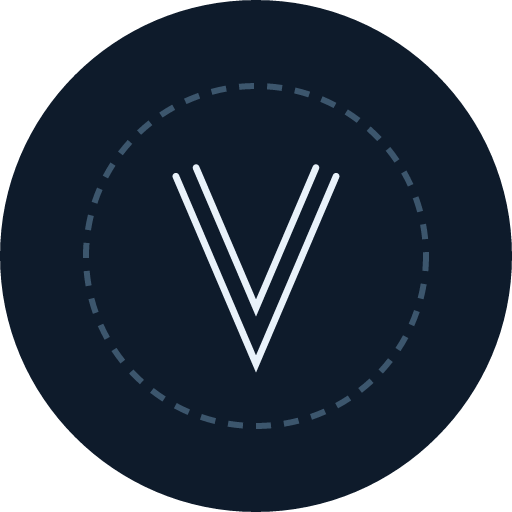
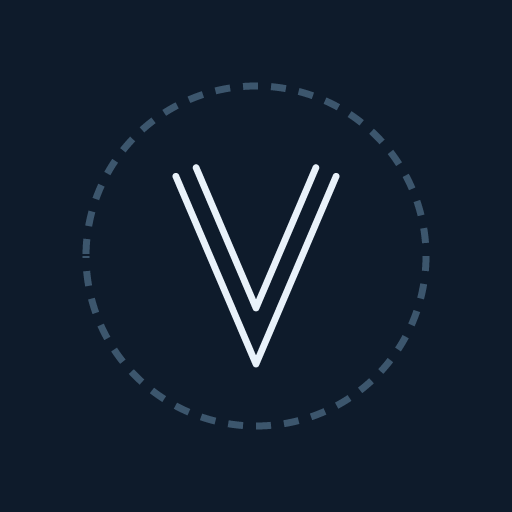
fix(mobile): ícone deixa de ser redondo no iOS
O `icon.svg` desenhava o fundo como `<circle r="256">` dentro de um viewBox
512x512, então sobravam os quatro cantos TRANSPARENTES. O iOS compõe
transparência sobre preto e aplica a máscara arredondada dele por cima — o
resultado é a bola escura dentro do quadrado que você viu. O iOS não tem opção
de ícone redondo mesmo; ele sempre desenha o quadrado de cantos arredondados, e
quem tem que entregar o quadrado cheio é o app.

Detalhe que explica por que isso passou: os PNGs commitados tinham vindo do
SVG, não do `scripts/generate-icons.mjs`. O script já desenhava o fundo no
quadrado inteiro — rodá-lo agora muda a imagem, o que confirma que os arquivos
estavam fora de sincronia com ele.

Três coisas:

1. O SVG passa a usar `<rect width="512" height="512">`. Vale pro favicon e pro
   manifesto, e é a fonte do desenho.
2. Os PNGs regenerados pelo script, agora em RGB SEM canal alfa (color type 2
   em vez de 6). Dois motivos: o desenho cobre o quadrado todo, então o alfa só
   ocupava espaço (512: 19KB → 7,2KB); e ícone de app iOS COM alfa é recusado
   pela App Store, então sem ele o mesmo arquivo serve pro PWA e pro build
   nativo, se um dia for por ali.
3. `apple-touch-icon` passa a ser 180x180, o tamanho que o iOS pede, em vez de
   apontar pro 192 e fazer o sistema reescalar. O iOS IGNORA o manifesto pra
   ícone de tela de início: é essa linha do index.html que vale, e era ela que
   estava servindo o arquivo errado.
[…]

diff --git a/mobile/index.html b/mobile/index.html
@@ -11,7 +11,10 @@
     <meta name="apple-mobile-web-app-status-bar-style" content="black-translucent" />
     <meta name="apple-mobile-web-app-title" content="Vistage" />
     <link rel="manifest" href="manifest.webmanifest" />
-    <link rel="apple-touch-icon" href="icon-192.png" />
+    <!-- 180x180 é o tamanho que o iOS pede; apontar pro 192 fazia ele
+         reescalar e perder nitidez. O iOS IGNORA o manifesto pra ícone de
+         tela de início: é esta linha que vale. -->
+    <link rel="apple-touch-icon" sizes="180x180" href="icon-180.png" />
     <link rel="icon" href="icon.svg" type="image/svg+xml" />
     <title>Vistage</title>
   </head>
